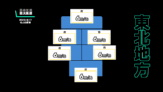
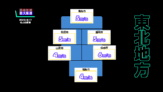
CONTENT:シーンのリンク設定、ボタン画像の追加、textBoxの表示
TYPE:修正、追加

diff --git a/teamproject1/OpendataPlayer.cs b/teamproject1/OpendataPlayer.cs
@@ -232,6 +232,8 @@ namespace teamproject1
         {
             m_pplayer.execute("Abort B");
             m_pplayer.execute("Clear B");
+            //TextBox表示
+            textBox1.Text += "【自動再生中】";
             //再生停止ボタンの切り替え
             Play.Visible = false;
             Stop.Visible = true;
@@ -355,6 +357,9 @@ namespace teamproject1
          *--------------------------------------------------------------------------------*/
         private void Stop_Click(object sender, EventArgs e)
         {
+            //TextBoxに表示
+            textBox1.Text = "【停止】";
+            //再生停止の切り替え
             Play.Visible = true;
             Stop.Visible = false;
             //タイマー停止
@@ -510,6 +515,9 @@ namespace teamproject1
 
             if (CoronaFlag)
             {//コロナ表示
+                //TextBoxに都道府県名を表示
+                textBox1.Text = ((Button)sender).Text;
+                //押したボタンの色変更
                 if (PrefectureNumber == 2)
                 {
                     ((Button)sender).BackColor = Color.FromArgb(24,92,209);
@@ -561,6 +569,7 @@ namespace teamproject1
                         ((Button)control).FlatAppearance.BorderColor = Color.FromArgb(24, 92, 209);
                         ((Button)control).FlatAppearance.BorderSize = 7;
                         strAreaName = "北海道天気";
+                        textBox1.Text = strAreaName.Substring(0, 3)+"地方";
                         break;
                     case 1:
                         for (int Num = 3; Num <= 8; Num++)
@@ -570,6 +579,7 @@ namespace teamproject1
                             ((Button)control).FlatAppearance.BorderSize = 7;    
                         }
                         strAreaName = "東北天気";
+                        textBox1.Text = strAreaName.Substring(0, 2) + "地方";
                         break;
                     case 2:
                         for (int Num = 9; Num <= 15; Num++)
@@ -579,6 +589,7 @@ namespace teamproject1
                             ((Button)control).FlatAppearance.BorderSize = 7;  
                         }
                         strAreaName = "関東天気";
+                        textBox1.Text = strAreaName.Substring(0, 2) + "地方";
                         break;
                     case 3:
                         for (int Num = 16; Num <= 24; Num++)
@@ -588,6 +599,7 @@ namespace teamproject1
                             ((Button)control).FlatAppearance.BorderSize = 7;  
                         }
                         strAreaName = "中部天気";
+                        textBox1.Text = strAreaName.Substring(0, 2) + "地方";
                         break;
                     case 4:
                         for (int Num = 25; Num <= 31; Num++)
@@ -597,6 +609,7 @@ namespace teamproject1
                             ((Button)control).FlatAppearance.BorderSize = 7;  
                         }
                         strAreaName = "近畿天気";
+                        textBox1.Text = strAreaName.Substring(0, 2) + "地方";
                         break;
                     case 5:
                         for (int Num = 32; Num <= 36; Num++)
@@ -606,6 +619,7 @@ namespace teamproject1
                             ((Button)control).FlatAppearance.BorderSize = 7;   
                         }
                         strAreaName = "中国天気";
+                        textBox1.Text = strAreaName.Substring(0, 2) + "地方";
                         break;
                     case 6:
                         for (int Num = 37; Num <= 40; Num++)
@@ -615,6 +629,7 @@ namespace teamproject1
                             ((Button)control).FlatAppearance.BorderSize = 7;   
                         }
                         strAreaName = "四国天気";
+                        textBox1.Text = strAreaName.Substring(0, 2) + "地方";
                         break;
                     case 7:
                         for (int Num = 41; Num <= 48; Num++)
@@ -624,6 +639,7 @@ namespace teamproject1
                             ((Button)control).FlatAppearance.BorderSize = 7;  
                         }
                         strAreaName = "九州天気";
+                        textBox1.Text = strAreaName.Substring(0, 2) + "地方";
                         break;
                 }
                 ((Button)sender).UseVisualStyleBackColor = true;
@@ -691,7 +707,7 @@ namespace teamproject1
         private void Weather_Click(object sender, EventArgs e)
         {
             CoronaFlag = false;
-            MonthCalendar.Enabled = false; 
+            MonthCalendar.Enabled = false;
         }
 
         /*--------------------------------------------------------------------------------

diff --git a/teamproject1/Properties/Resources.Designer.cs b/teamproject1/Properties/Resources.Designer.cs
@@ -63,6 +63,26 @@ namespace teamproject1.Properties {
         /// <summary>
         ///   型 System.Drawing.Bitmap のローカライズされたリソースを検索します。
         /// </summary>
+        internal static System.Drawing.Bitmap covid19button {
+            get {
+                object obj = ResourceManager.GetObject("covid19button", resourceCulture);
+                return ((System.Drawing.Bitmap)(obj));
+            }
+        }
+        
+        /// <summary>
+        ///   型 System.Drawing.Bitmap のローカライズされたリソースを検索します。
+        /// </summary>
+        internal static System.Drawing.Bitmap covid19button_put {
+            get {
+                object obj = ResourceManager.GetObject("covid19button-put", resourceCulture);
+                return ((System.Drawing.Bitmap)(obj));
+            }
+        }
+        
+        /// <summary>
+        ///   型 System.Drawing.Bitmap のローカライズされたリソースを検索します。
+        /// </summary>
         internal static System.Drawing.Bitmap playbutton {
             get {
                 object obj = ResourceManager.GetObject("playbutton", resourceCulture);
@@ -73,9 +93,59 @@ namespace teamproject1.Properties {
         /// <summary>
         ///   型 System.Drawing.Bitmap のローカライズされたリソースを検索します。
         /// </summary>
+        internal static System.Drawing.Bitmap playbutton1 {
+            get {
+                object obj = ResourceManager.GetObject("playbutton1", resourceCulture);
+                return ((System.Drawing.Bitmap)(obj));
+            }
+        }
+        
+        /// <summary>
+        ///   型 System.Drawing.Bitmap のローカライズされたリソースを検索します。
+        /// </summary>
         internal static System.Drawing.Bitmap stopbutton {
             get {
                 object obj = ResourceManager.GetObject("stopbutton", resourceCulture);
+                return ((System.Drawing.Bitmap)(obj));
+            }
+        }
+        
+        /// <summary>
+        ///   型 System.Drawing.Bitmap のローカライズされたリソースを検索します。
+        /// </summary>
+        internal static System.Drawing.Bitmap stopbutton1 {
+            get {
+                object obj = ResourceManager.GetObject("stopbutton1", resourceCulture);
+                return ((System.Drawing.Bitmap)(obj));
+            }
+        }
+        
+        /// <summary>
+        ///   型 System.Drawing.Bitmap のローカライズされたリソースを検索します。
+        /// </summary>
+        internal static System.Drawing.Bitmap weatherbutton {
+            get {
+                object obj = ResourceManager.GetObject("weatherbutton", resourceCulture);
+                return ((System.Drawing.Bitmap)(obj));
+            }
+        }
+        
+        /// <summary>
+        ///   型 System.Drawing.Bitmap のローカライズされたリソースを検索します。
+        /// </summary>
+        internal static System.Drawing.Bitmap weatherbutton_put {
+            get {
+                object obj = ResourceManager.GetObject("weatherbutton-put", resourceCulture);
+                return ((System.Drawing.Bitmap)(obj));
+            }
+        }
+        
+        /// <summary>
+        ///   型 System.Drawing.Bitmap のローカライズされたリソースを検索します。
+        /// </summary>
+        internal static System.Drawing.Bitmap アプリアイコン {
+            get {
+                object obj = ResourceManager.GetObject("アプリアイコン", resourceCulture);
                 return ((System.Drawing.Bitmap)(obj));
             }
         }

diff --git a/teamproject1/OpendataPlayer.Designer.cs b/teamproject1/OpendataPlayer.Designer.cs
@@ -78,11 +78,11 @@ namespace teamproject1
             this.id47 = new System.Windows.Forms.Button();
             this.MonthCalendar = new System.Windows.Forms.MonthCalendar();
             this.OpendataFileWatcher = new System.IO.FileSystemWatcher();
+            this.textBox1 = new System.Windows.Forms.TextBox();
             this.Play = new System.Windows.Forms.Button();
             this.Stop = new System.Windows.Forms.Button();
             this.Corona = new System.Windows.Forms.Button();
             this.Weather = new System.Windows.Forms.Button();
-            this.textBox1 = new System.Windows.Forms.TextBox();
             ((System.ComponentModel.ISupportInitialize)(this.OpendataFileWatcher)).BeginInit();
             this.SuspendLayout();
             // 
@@ -827,6 +827,16 @@ namespace teamproject1
             this.OpendataFileWatcher.EnableRaisingEvents = true;
             this.OpendataFileWatcher.SynchronizingObject = this;
             // 
+            // textBox1
+            // 
+            this.textBox1.Anchor = System.Windows.Forms.AnchorStyles.None;
+            this.textBox1.Font = new System.Drawing.Font("MS UI Gothic", 18F, System.Drawing.FontStyle.Regular, System.Drawing.GraphicsUnit.Point, ((byte)(128)));
+            this.textBox1.Location = new System.Drawing.Point(804, 100);
+            this.textBox1.Multiline = true;
+            this.textBox1.Name = "textBox1";
+            this.textBox1.Size = new System.Drawing.Size(352, 220);
+            this.textBox1.TabIndex = 66;
+            // 
             // Play
             // 
             this.Play.BackgroundImage = global::teamproject1.Properties.Resources.playbutton;
@@ -859,7 +869,7 @@ namespace teamproject1
             // 
             // Corona
             // 
-            this.Corona.BackgroundImage = global::teamproject1.Properties.Resources.コロナアイコン;
+            this.Corona.BackgroundImage = global::teamproject1.Properties.Resources.covid19button;
             this.Corona.BackgroundImageLayout = System.Windows.Forms.ImageLayout.Zoom;
             this.Corona.FlatAppearance.BorderSize = 0;
             this.Corona.FlatStyle = System.Windows.Forms.FlatStyle.Flat;
@@ -872,7 +882,7 @@ namespace teamproject1
             // 
             // Weather
             // 
-            this.Weather.BackgroundImage = global::teamproject1.Properties.Resources.天気アイコン;
+            this.Weather.BackgroundImage = global::teamproject1.Properties.Resources.weatherbutton;
             this.Weather.BackgroundImageLayout = System.Windows.Forms.ImageLayout.Stretch;
             this.Weather.FlatAppearance.BorderSize = 0;
             this.Weather.FlatStyle = System.Windows.Forms.FlatStyle.Flat;
@@ -882,15 +892,6 @@ namespace teamproject1
             this.Weather.TabIndex = 55;
             this.Weather.UseVisualStyleBackColor = true;
             this.Weather.Click += new System.EventHandler(this.Weather_Click);
-            // 
-            // textBox1
-            // 
-            this.textBox1.Anchor = System.Windows.Forms.AnchorStyles.None;
-            this.textBox1.Location = new System.Drawing.Point(804, 100);
-            this.textBox1.Multiline = true;
-            this.textBox1.Name = "textBox1";
-            this.textBox1.Size = new System.Drawing.Size(352, 220);
-            this.textBox1.TabIndex = 66;
             // 
             // OpendataPlayer
             // 
